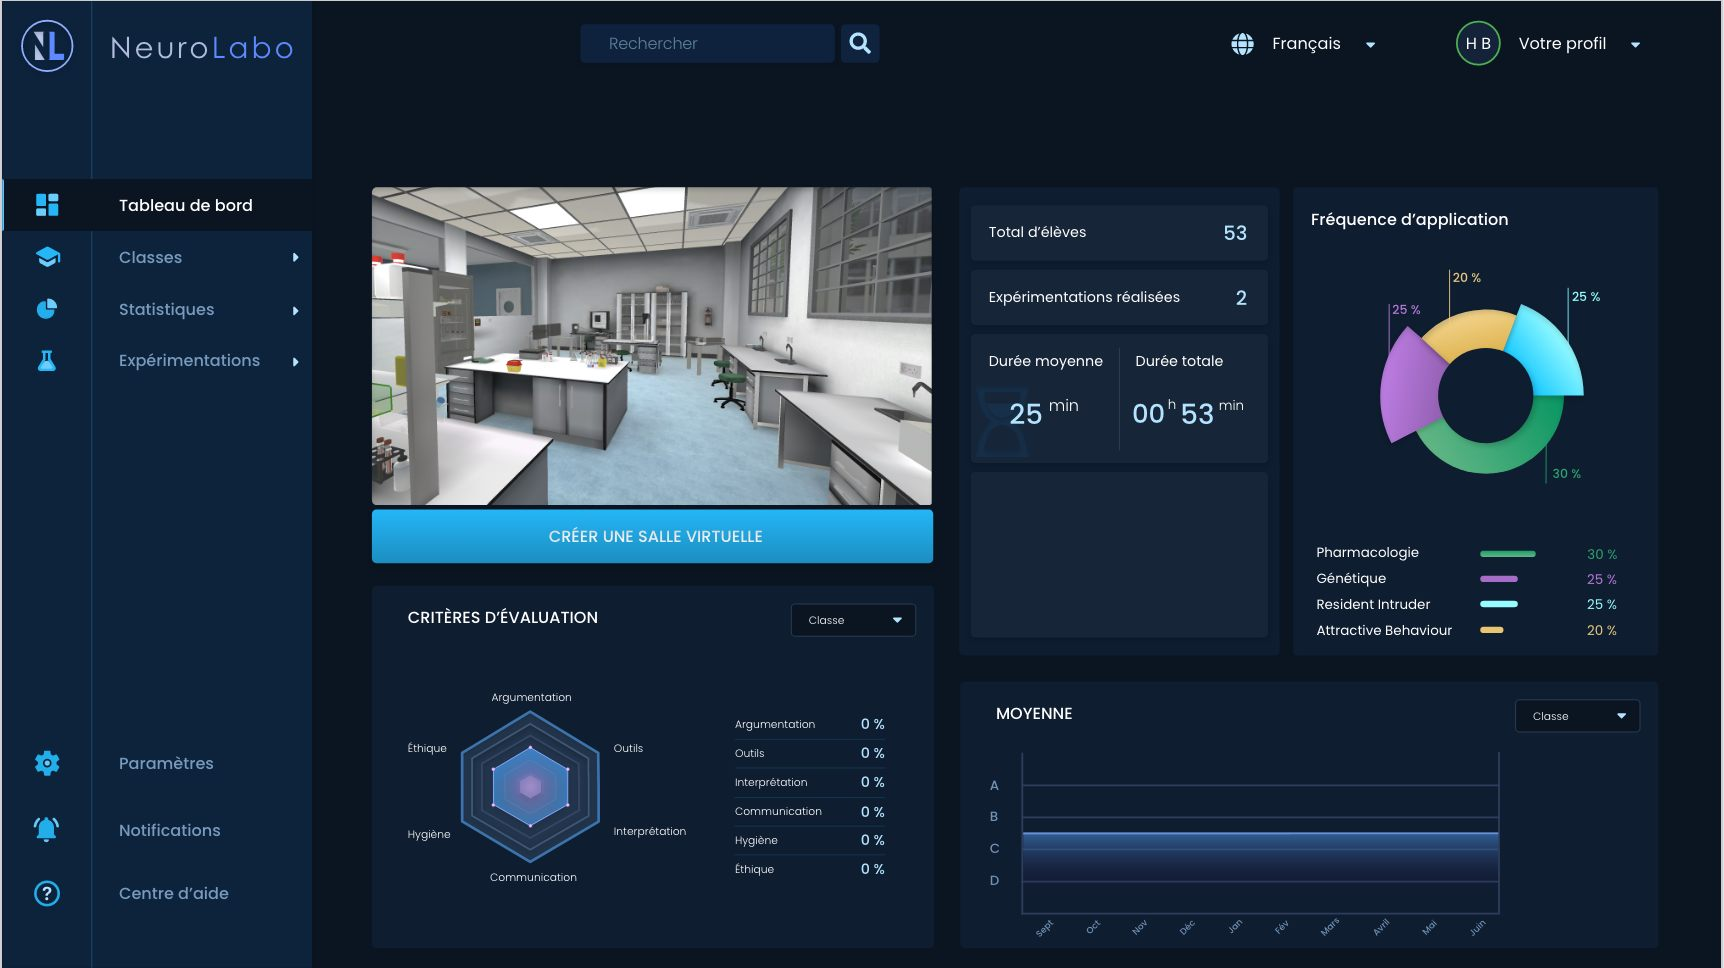
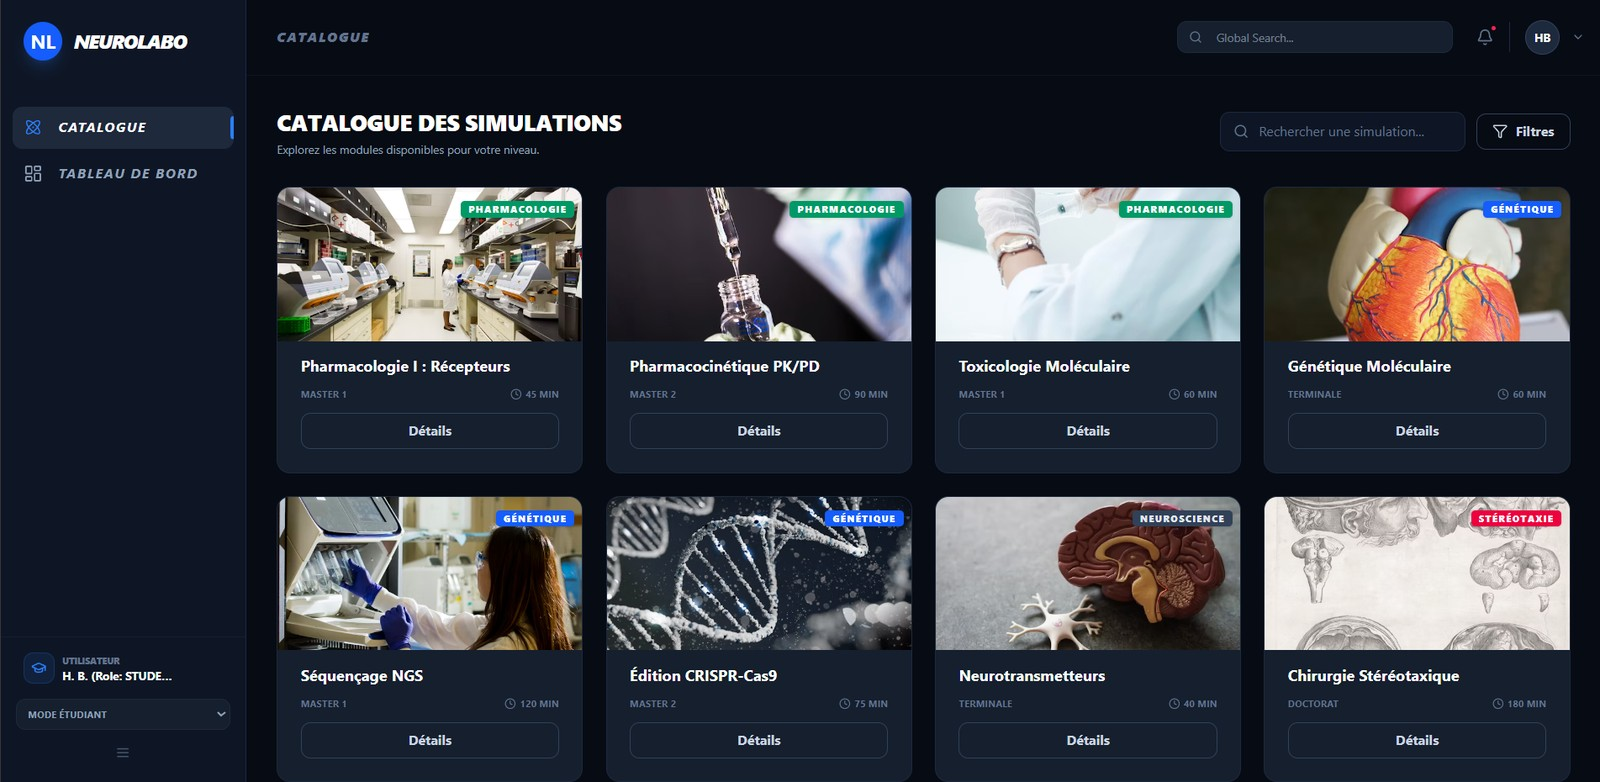
fix(comparateur): images entieres - conteneur 16:9 + object-contain (fin du rognage), et remplace l'image optimisee par l'interface finale NEUROLABO

diff --git a/src/app/components/UseCases.tsx b/src/app/components/UseCases.tsx
@@ -118,12 +118,12 @@ function BeforeAfterSlider({ before, after }: { before: string; after: string })
 
   return (
     <div 
-      className="relative w-full h-[400px] lg:h-[600px] cursor-ew-resize overflow-hidden select-none rounded-[16px] border border-border-0 bg-surface-1 shadow-panel"
+      className="relative w-full aspect-[16/9] cursor-ew-resize overflow-hidden select-none rounded-[16px] border border-border-0 bg-surface-1 shadow-panel"
       onMouseMove={handleMouseMove}
       onTouchMove={handleMouseMove}
     >
       <div className="absolute inset-0">
-        <ImageWithFallback src={after} alt="Interface après refonte UX — version corrigée" className="w-full h-full object-cover" />
+        <ImageWithFallback src={after} alt="Interface après refonte UX — version corrigée" className="w-full h-full object-contain" />
         <div className="absolute bottom-6 right-6 z-20">
           <span className="font-body text-[11px] bg-accent-primary text-on-accent font-medium px-6 py-2 uppercase tracking-widest rounded-full shadow-panel" style={{ fontWeight: 500 }}>
             OPTIMISÉ
@@ -134,7 +134,7 @@ function BeforeAfterSlider({ before, after }: { before: string; after: string })
         className="absolute inset-0 border-r border-accent-primary z-10"
         style={{ clipPath: `inset(0 ${100 - sliderPos}% 0 0)` }}
       >
-        <ImageWithFallback src={before} alt="Interface avant refonte — version initiale" className="w-full h-full object-cover" />
+        <ImageWithFallback src={before} alt="Interface avant refonte — version initiale" className="w-full h-full object-contain" />
         <div className="absolute bottom-6 left-6 z-20">
           <span className="font-body text-[11px] bg-surface-0 text-text-primary border border-border-0 font-bold px-6 py-2 uppercase tracking-widest rounded-full">
             WIREFRAME